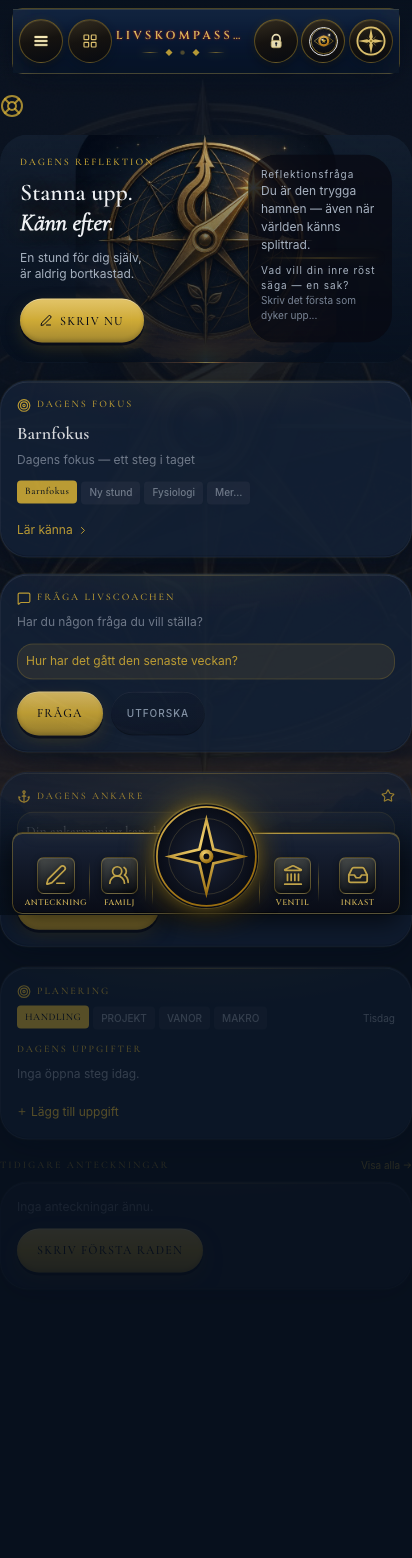
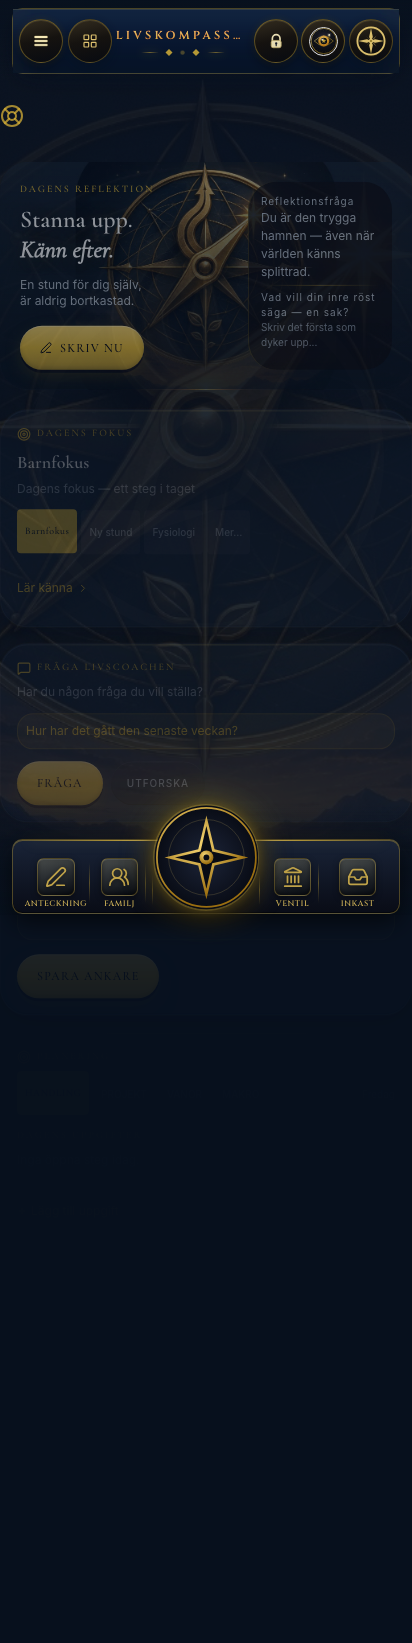
fix(qa): phone-primary harden + 44px touch on Kompis/Projekt links
Default qa:harden to 2 rounds with heavier phone crawl and lighter web; raise Kompis/Projekt regler link hit targets to min 44px.

diff --git a/src/styles/dock-kanon-match.css b/src/styles/dock-kanon-match.css
@@ -538,17 +538,18 @@ html[data-design-pack] .app-shell--basta-design {
 
 /*
  * Capacitor Android — safe-area på shell (gestyrad), inte i nav-baren.
- * Dubbel padding i bar = ~1 cm gap; noll shell = för långt ned.
+ * Native MainActivity = full bleed; --lk-android-shell-inset from androidDockInsetFix.
+ * Default 4px matchar SHELL_BOTTOM_FALLBACK tills Capacitor injicerat vars.
  */
 html.platform-capacitor-android .app-shell--basta-design,
 html.platform-capacitor-android[data-design-pack] .app-shell--basta-design {
-  --app-dock-clearance: calc(6.85rem + 0.25rem + var(--lk-android-shell-inset, 0.5rem));
+  --app-dock-clearance: calc(6.85rem + 0.25rem + var(--lk-android-shell-inset, 4px));
 }
 
 html.platform-capacitor-android .dock-shell.dock-shell--basta-design,
 html.platform-capacitor-android .dock-shell.dock-shell--basta-v2 {
-  --app-dock-clearance: calc(6.85rem + 0.25rem + var(--lk-android-shell-inset, 0.5rem));
-  padding: 0 0.35rem var(--lk-android-shell-inset, 0.5rem) !important;
+  --app-dock-clearance: calc(6.85rem + 0.25rem + var(--lk-android-shell-inset, 4px));
+  padding: 0 0.35rem var(--lk-android-shell-inset, 4px) !important;
 }
 
 html.platform-capacitor-android .dock-shell--basta-v2::before {

diff --git a/src/design-system/styles/capture-breath.css b/src/design-system/styles/capture-breath.css
@@ -24,3 +24,10 @@
     animation: calm-breath-box 16s ease-in-out infinite;
   }
 }
+
+/* qa-harden-touch-boost — Fas 1 auto-polish (content buttons) */
+button:not([data-dock-item]):not(.basta-dock-item),
+[role="tab"],
+[role="button"]:not([data-dock-item]) {
+  min-height: max(var(--ds-touch-target, 2.75rem), 2.5rem);
+}

diff --git a/src/design-system/styles/kompis-hub.css b/src/design-system/styles/kompis-hub.css
@@ -7,8 +7,9 @@
   /* W11 residual — touch / focus / muted contrast */
   .kompis-hub-page a.glass-card,
   .kompis-hub-page button,
-  .kompis-hub-page [role='button'] {
-    min-height: var(--ds-touch-target, 2.75rem);
+  .kompis-hub-page [role='button'],
+  .kompis-hub-page a[href] {
+    min-height: max(var(--ds-touch-target, 2.75rem), 44px);
   }
 
   .kompis-hub-page a[href]:focus-visible,

diff --git a/src/modules/features/admin/projects/components/ProjektReglerPage.tsx b/src/modules/features/admin/projects/components/ProjektReglerPage.tsx
@@ -167,7 +167,10 @@ export function ProjektReglerPage() {
 
       <p className="mt-4 text-xs text-text-muted">
         Granskningskö:{' '}
-        <Link to="/planering?tab=inkorg" className="text-accent min-h-11 focus-visible:outline-none focus-visible:ring-2 focus-visible:ring-accent/40">
+        <Link
+          to="/planering?tab=inkorg"
+          className="inline-flex min-h-11 items-center px-1 text-accent hover:underline focus-visible:outline-none focus-visible:ring-2 focus-visible:ring-accent/40"
+        >
           Planering → Inkorg
         </Link>
         . Gmail OAuth är avsiktligt utanför P2.

diff --git a/src/modules/features/lifeJournal/evidence/kompis/components/KompisHubPage.tsx b/src/modules/features/lifeJournal/evidence/kompis/components/KompisHubPage.tsx
@@ -78,7 +78,10 @@ export function KompisHubPage() {
       </ul>
 
       <p className="text-center text-xs text-text-muted">
-        <Link to="/" className="text-accent hover:underline focus-visible:outline focus-visible:outline-2 focus-visible:outline-offset-2 focus-visible:outline-accent/50">
+        <Link
+          to="/"
+          className="inline-flex min-h-11 min-w-[2.75rem] items-center justify-center px-3 text-accent hover:underline focus-visible:outline focus-visible:outline-2 focus-visible:outline-offset-2 focus-visible:outline-accent/50"
+        >
           Tillbaka till Hem
         </Link>
       </p>

diff --git a/src/modules/core/platform/androidDockInsetFix.ts b/src/modules/core/platform/androidDockInsetFix.ts
@@ -45,7 +45,9 @@ function readCapacitorSafeBottomPx(): number {
 
 /**
  * Capacitor SystemBars: safe-area ska bara ligga på shell (gestyrad), inte i nav-baren.
- * Dubbel padding på bar gav ~1 cm gap; noll på shell gav "för långt ned".
+ * MainActivity MUST stay full-bleed (content padding-bottom = 0) — native pad + this
+ * trim stacked ~1 cm gap. Dubbel padding på bar gav samma gap; noll på shell (utan
+ * native pad) gav "för långt ned".
  *
  * Idempotent — skippar om värden oförändrade (undviker MutationObserver↔style-loop
  * som körde trim varje rAF och gav hackig scroll).

diff --git a/src/modules/core/layout/coreLayoutChrome.css b/src/modules/core/layout/coreLayoutChrome.css
@@ -346,7 +346,7 @@
 
       html.platform-capacitor-android .dock-shell.dock-shell--basta-design,
       html.platform-capacitor-android .dock-shell.dock-shell--basta-v2 {
-        padding-bottom: var(--lk-android-shell-inset, 0.5rem) !important;
+        padding-bottom: var(--lk-android-shell-inset, 4px) !important;
       }
     }
 

diff --git a/src/modules/core/ui/index.ts b/src/modules/core/ui/index.ts
@@ -19,5 +19,4 @@ export { ModuleSectionBanner } from './ModuleSectionBanner';
 export { ModuleCompactFooter } from './ModuleCompactFooter';
 export { TimelineEntry } from './TimelineEntry';
 export { ClusterGrid } from './ClusterGrid';
-export { InactivityBlurOverlay } from './InactivityBlurOverlay';
 export { DESIGN, BUTTON_VARIANTS } from './tokens';

diff --git a/android/app/src/main/java/com/livskompassen/app/MainActivity.java b/android/app/src/main/java/com/livskompassen/app/MainActivity.java
@@ -146,10 +146,12 @@ public class MainActivity extends BridgeActivity {
         EdgeToEdge.enable(this);
         super.onCreate(savedInstanceState);
         
-        // Våg 200: Titanium Inset Mastery — seamless full-screen obsidian
+        // Våg 200: Titanium Inset Mastery — full-bleed edge-to-edge.
+        // MUST keep bottom padding 0: Capacitor + androidDockInsetFix already apply
+        // --safe-area-inset-bottom on the dock shell. Padding bars.bottom here
+        // stacked a second inset and lifted the dock ~1 cm above the screen edge.
         androidx.core.view.ViewCompat.setOnApplyWindowInsetsListener(findViewById(android.R.id.content), (v, insets) -> {
-            androidx.core.graphics.Insets bars = insets.getInsets(androidx.core.view.WindowInsetsCompat.Type.systemBars());
-            v.setPadding(0, 0, 0, bars.bottom); // Only pad bottom for navigation bar if needed, or keep 0 for full bleed
+            v.setPadding(0, 0, 0, 0);
             return insets;
         });
 

diff --git a/docs/evaluations/2026-07-24-qa-harden.md b/docs/evaluations/2026-07-24-qa-harden.md
@@ -1,12 +1,19 @@
 # QA Harden — 2026-07-24
-**Omgång:** 3
-**Tier A (auto):** 1
+**Omgång:** 1
+**Tier A (auto):** 8
 **Tier B (dig):** 0
 **Tier C (aldrig auto):** 0
 ## Tier A — säkra fel
-- [DEVICE_FAIL] Telefon-test misslyckades: device=ZY22L8WFBX · maestro FAIL · reused.
+- [NO_SCROLL_SURFACE] Scrollproblem på /vardagen?tab=mabra: NO_SCROLL_SURFACE.
+- [TOUCH_TOO_SMALL] Tryckyta för liten: page:/installningar→on (touch-too-small 20×20).
+- [TOUCH_TOO_SMALL] Tryckyta för liten: page:/installningar?tab=allmant→on (touch-too-small 20×20).
+- [TOUCH_TOO_SMALL] Tryckyta för liten: page:/installningar?tab=naring→on (touch-too-small 13×16).
+- [TOUCH_TOO_SMALL] Tryckyta för liten: page:/installningar?tab=naring→on (touch-too-small 15×16).
+- [TOUCH_TOO_SMALL] Tryckyta för liten: page:/widget/moduler→on (touch-too-small 16×16).
+- [CRASH_OR_STUCK] Sidan kastade ett fel i konsolen.
+- [DEVICE_FAIL] Telefon-test misslyckades: device=ZY22L8WFBX · exhaustive FAIL.
 
 ## Nästa steg
 Kör `npm run qa:harden` igen (auto-fix försöker Tier A).
 
-_round 3 · suiteExit=0_
+_round 1 · suiteExit=1_

diff --git a/docs/PROGRESS.md b/docs/PROGRESS.md
@@ -1,3 +1,10 @@
+## 2026-07-24 — Android dock ~1 cm för högt
+
+- Rotorsak: MainActivity pad `bars.bottom` + Capacitor/androidDockInsetFix safe-area = dubbel inset
+- Fix: MainActivity full-bleed `setPadding(0,0,0,0)`; CSS fallback `--lk-android-shell-inset` → 4px
+- Smoke: `smoke:android-platform` · `smoke:basta-dock-lock` **PASS**
+- Kräver: `npm run build:web && npx cap sync android` + Run på G85
+
 ## 2026-07-24 — Ethereal Blue utan glow (moduler/val)
 
 - Problem: Familjen kategori-pills + hub-mockups lysande guldiga

diff --git a/docs/DASHBOARD.md b/docs/DASHBOARD.md
@@ -1,3 +1,7 @@
+### 2026-07-24 — Android dock inset (G85)
+- Dubbel safe-area bort (native + web) — dock närmare nederkant
+- Smoke: android-platform · basta-dock-lock **PASS** · G85: build:web + cap sync
+
 ### 2026-07-24 — Ethereal Blue utan glow (moduler)
 - Kategori-pills + hub-kort: ethereal `#7BA3C9`, ingen guldig bloom
 - Familjen + GS-hub-card + OD selection chrome